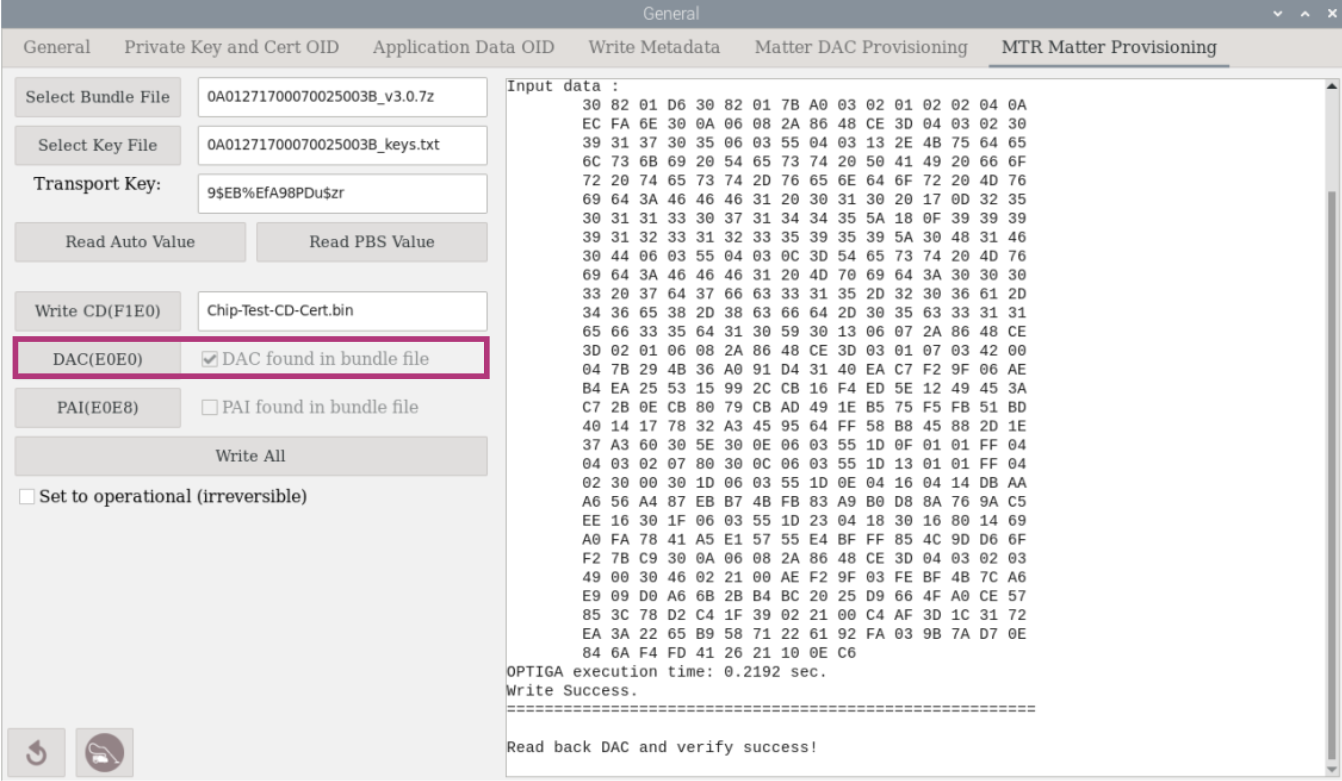
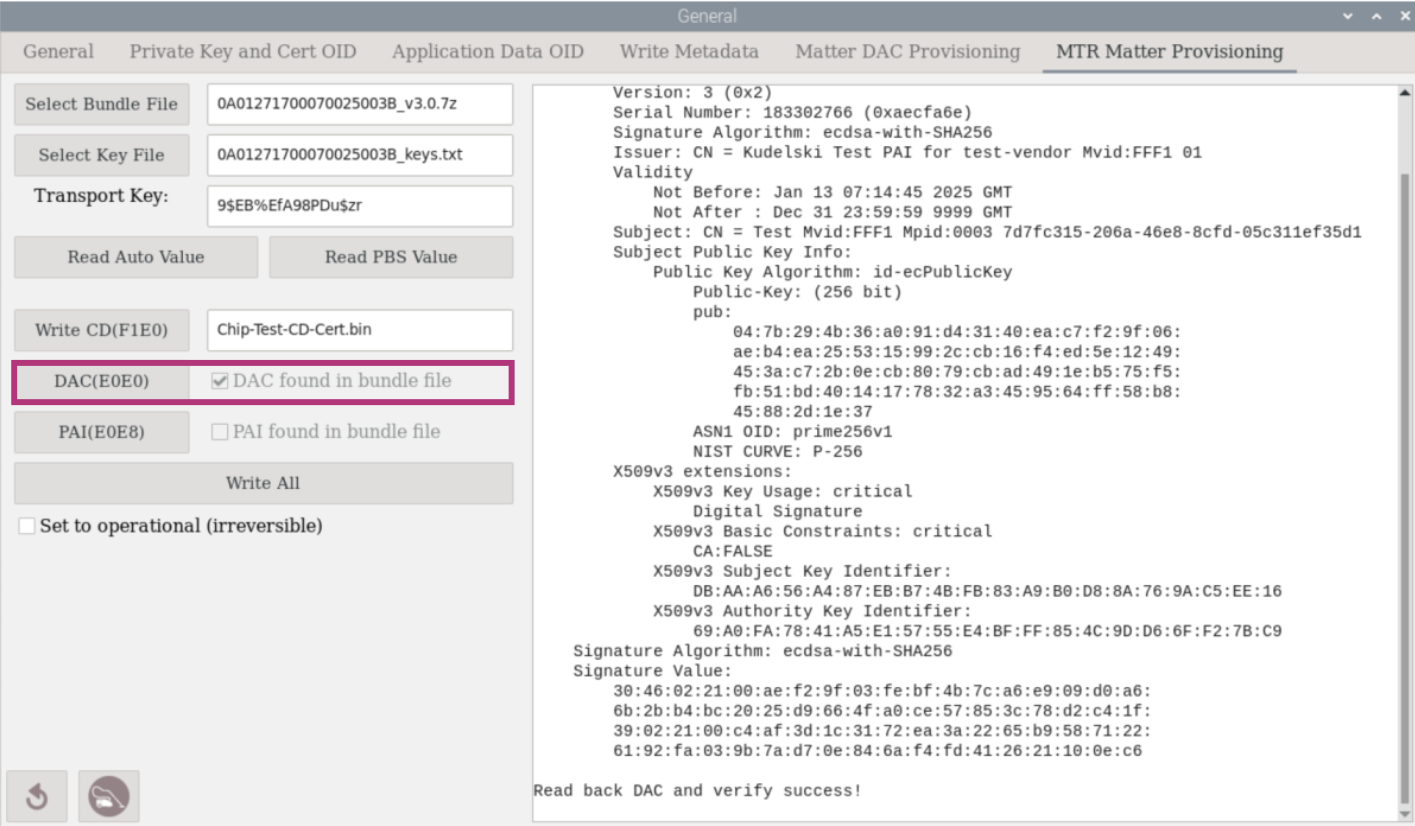
Updated User Guide

diff --git a/User Guide.md b/User Guide.md
@@ -531,7 +531,7 @@ Writes the PAI to OID 0xE0E8. By selecting "PAI(E0E8)", GUI will start to search
 
 Writes CD, DAC and PAI to corresponding OIDs in one time. Select "Write All" to write them  in order. "Write All Operation Completed Successfully and Verification Passes" will be printed when all writings are finished successfully.
 
-![](images/General_Features/mtr_matter_provisioning/write-all.png)
+![](images/General_Features/mtr_matter_provisioning/write_all.png)
 
 ### Operational Mode
 
